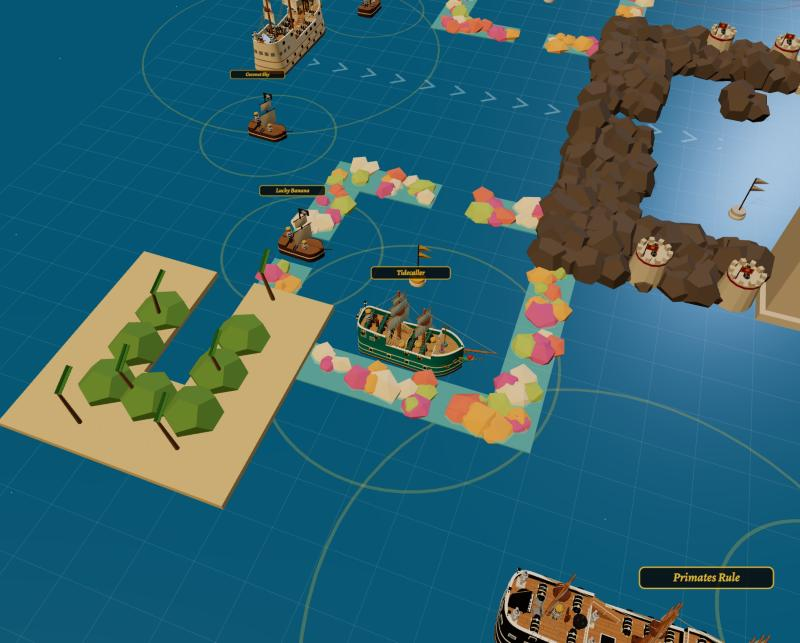
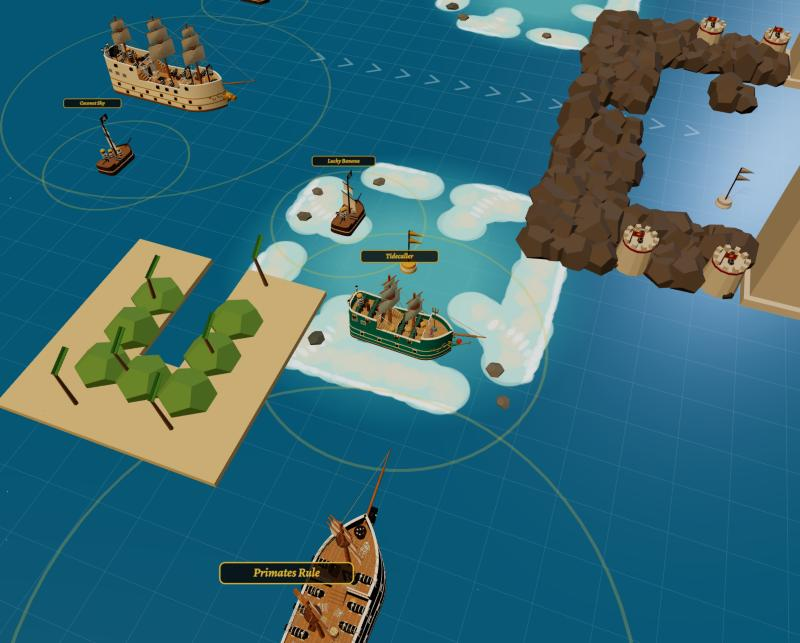
The reefs drawn as lagoons, not coloured coral: the sea paling to turquoise, a sandbar ring under surf, its gaps open

diff --git a/js/den/blockade.js b/js/den/blockade.js
@@ -69,24 +69,67 @@ export function blockadeSea({ you = 0, say = () => {}, brawl = false, admiral = 
   // ----- the rocks, the fort's walls among them (its towers and bastions their own) -----
   const stoneM = mat('#6b6158', { flatShading: true, roughness: 0.95 }), stoneGeo = new THREE.DodecahedronGeometry(1, 0);
   const isleSq = new Set(BLOCKADE.ISLANDS.flatMap((i) => islandLand(i).map(([c, r]) => `${c},${r}`)));
-  // (the reefs round the island buoys: shallow water over sand, low coral heads breaking the surface, not rocks)
+  // (the reefs round the island buoys, drawn as a lagoon is (15 Nov: "they look incredibly weird and colourful, not very
+  // lagoon reef like"): the sea paling to turquoise round each, the reef a ring of pale sand just under the water with
+  // a few dark rocks breaking it and white surf along it, the lagoon inside clear turquoise)
   // (the fort's wall where a reef meets it, still wall)
   const wall = (c, r) => B.WALLS.some((w) => c >= w.c0 && c <= w.c1 && r >= w.r0 && r <= w.r1);
   const reefSq = new Set(BLOCKADE.REEFS.flatMap((x) => reefSquares(x).filter(([c, r]) => !wall(c, r)).map(([c, r]) => `${c},${r}`)));
-  const shallowM = new THREE.MeshStandardMaterial({ color: '#6fd0c4', roughness: 0.6, transparent: true, opacity: 0.75 });
-  const coralMs = ['#e8826e', '#f0b25c', '#d870a8', '#f2e2c4', '#b8d06a'].map((col) => mat(col, { flatShading: true, roughness: 0.85 }));
-  const coralGeo = new THREE.IcosahedronGeometry(1, 0), shallowGeo = new THREE.BoxGeometry(CELL, 0.5, CELL);
+  // (each reef painted as one picture over the sea: a soft paling round it, the lagoon, a sandbar ring with a wobbly
+  // edge and its gaps open, surf along its outside; the few rocks on it in 3D)
+  const reefTex = (reef) => canvasTex(512, 512, (x, w) => {
+    const n = reef.ring * 2 + 3, px = w / n, mid = w / 2, roll = dice(reef.at[0], reef.at[1]);
+    const toPx = (c, r) => [mid + (c - reef.at[0]) * px, mid - (r - reef.at[1]) * px];
+    x.clearRect(0, 0, w, w);
+    const halo = x.createRadialGradient(mid, mid, px * 1.5, mid, mid, mid);
+    halo.addColorStop(0, 'rgba(74, 185, 178, 0.75)'); halo.addColorStop(0.6, 'rgba(58, 160, 165, 0.45)'); halo.addColorStop(1, 'rgba(47, 143, 154, 0)');
+    x.fillStyle = halo; x.fillRect(0, 0, w, w);
+    // (along the ring: its middle line, a rounded square reef.ring squares out)
+    const R = reef.ring * px, corner = px * 1.1, along = [];
+    for (let t = 0; t < 1; t += 1 / 400) {
+      const u = t * 4, side = Math.floor(u), f = u - side, a = -R + corner + f * (2 * R - 2 * corner);
+      const pts = [[a, -R], [R, a], [-a, R], [-R, -a]][side];
+      along.push(pts);
+      if (f > 0.97) for (let k = 0; k <= 8; k++) { const th = (side * Math.PI) / 2 - Math.PI / 2 + (k / 8) * (Math.PI / 2); along.push([[R - corner, R - corner], [-R + corner, R - corner], [-R + corner, -R + corner], [R - corner, -R + corner]][side].map((v, i) => v + (i ? Math.sin(th) : Math.cos(th)) * corner)); }
+    }
+    const gaps = reef.gaps.map(([c, r]) => toPx(c, r));
+    const inGap = (X, Y) => gaps.some(([gx, gy]) => Math.hypot(X - gx, Y - gy) < px * 0.62);
+    // the sandbar under the water, its edge wobbling
+    for (const [ax, ay] of along) {
+      const X = mid + ax, Y = mid + ay;
+      if (inGap(X, Y)) continue;
+      x.fillStyle = 'rgba(160, 220, 204, 0.8)'; x.beginPath(); x.arc(X + (roll() - 0.5) * px * 0.2, Y + (roll() - 0.5) * px * 0.2, px * (0.42 + roll() * 0.16), 0, Math.PI * 2); x.fill();
+    }
+    for (const [ax, ay] of along) {
+      const X = mid + ax, Y = mid + ay;
+      if (inGap(X, Y) || roll() < 0.5) continue;
+      x.fillStyle = 'rgba(226, 216, 178, 0.45)'; x.beginPath(); x.arc(X + (roll() - 0.5) * px * 0.35, Y + (roll() - 0.5) * px * 0.35, px * (0.12 + roll() * 0.14), 0, Math.PI * 2); x.fill();
+    }
+    // surf, white, along the bar's outer edge
+    for (const [ax, ay] of along) {
+      const d = Math.hypot(ax, ay) || 1, out = px * 0.5, X = mid + ax + (ax / d) * out, Y = mid + ay + (ay / d) * out;
+      if (inGap(mid + ax, mid + ay) || roll() < 0.35) continue;
+      x.fillStyle = `rgba(255, 255, 255, ${0.25 + roll() * 0.35})`; x.beginPath(); x.ellipse(X, Y, px * (0.06 + roll() * 0.14), px * (0.04 + roll() * 0.06), Math.atan2(ay, ax) + Math.PI / 2, 0, Math.PI * 2); x.fill();
+    }
+  });
+  const reefRockM = ['#6d6f68', '#7a776c', '#5d6660'].map((col) => mat(col, { flatShading: true, roughness: 0.95 }));
+  const rockGeo = new THREE.DodecahedronGeometry(1, 0), reefSheets = [];
+  for (const reef of BLOCKADE.REEFS) {
+    const at = v3(...reef.at), size = (reef.ring * 2 + 3) * CELL;
+    const q = new THREE.Mesh(new THREE.PlaneGeometry(size, size).rotateX(-Math.PI / 2), new THREE.MeshBasicMaterial({ map: reefTex(reef), transparent: true, depthWrite: false }));
+    q.position.set(at.x, 0.02, at.z); q.renderOrder = 1; g.add(q); reefSheets.push(q);
+  }
   for (const k of b.rocks) {
     const [c, r] = k.split(',').map(Number);
     if (isleSq.has(k) || b.gates.some((gate) => gate.towerAt(c, r) >= 0) || b.battery.some((x) => x.at[0] === c && x.at[1] === r)) continue;
     const roll = dice(c, r), at = v3(c, r);
     if (reefSq.has(k)) {
-      const sh = mesh(shallowGeo, shallowM, false); sh.position.set(at.x, -0.12, at.z); g.add(sh);
-      for (let i = 0; i < 5; i++) {
-        const s = 0.6 + roll() * 0.7, m = mesh(coralGeo, coralMs[Math.floor(roll() * coralMs.length)]);
-        m.scale.set(s * (1 + roll() * 0.6), s * (0.35 + roll() * 0.45), s * (1 + roll() * 0.6));
-        m.position.set(at.x + (roll() - 0.5) * 2.8, s * 0.12, at.z + (roll() - 0.5) * 2.8);
-        m.rotation.set(roll() * 0.5, roll() * 3, roll() * 0.5);
+      // (a rock or two breaking the surface, low and dark)
+      for (let i = 0, n = roll() < 0.45 ? 1 : 0; i < n; i++) {
+        const sz = 0.4 + roll() * 0.4, m = mesh(rockGeo, reefRockM[Math.floor(roll() * reefRockM.length)]);
+        m.scale.set(sz * (1 + roll() * 0.4), sz * 0.6, sz * (1 + roll() * 0.4));
+        m.position.set(at.x + (roll() - 0.5) * 2.6, 0.02, at.z + (roll() - 0.5) * 2.6);
+        m.rotation.set(0, roll() * 3, 0);
         g.add(m);
       }
       continue;
@@ -333,6 +376,7 @@ export function blockadeSea({ you = 0, say = () => {}, brawl = false, admiral = 
         buoys[i].o.position.y = Math.sin(clock * 1.2 + i) * 0.1;
       });
       for (const t of lanes) t.offset.y -= dt * 2.2;
+      for (const q of reefSheets) q.material.opacity = 0.92 + Math.sin(clock * 0.9) * 0.08;   // (the surf, breathing)
       // Your pin, your berth there, your course.
       const mine = me >= 0 ? b.ship(me) : null;
       pin.visible = !!mine?.helm.pin;

diff --git a/changelog.html b/changelog.html
@@ -83,10 +83,10 @@
       <a href="changelog/blockade.jpg"><img src="changelog/blockade.jpg" width="800" height="450" alt="A blockade board from above: a wall of rocks across the sea with an imperial gate, one tower shot down, war frigates and sloops round the buoys, influence circles on the water"></a>
       <a href="changelog/blockade-brawl.jpg"><img src="changelog/blockade-brawl.jpg" width="800" height="505" alt="Iron Pride holed along her side in a brawl with Primates Rule, Golden Grin coming in"></a>
       <a href="changelog/blockade-brig-turtles.jpg"><img src="changelog/blockade-brig-turtles.jpg" width="800" height="643" alt="Tidecaller, an Atlantean war brig in sea green, her sea turtles swimming out from her sides"></a>
-      <a href="changelog/blockade-reef.jpg"><img src="changelog/blockade-reef.jpg" width="800" height="643" alt="A coral reef round a buoy by an island, Tidecaller in its lagoon, a sloop coming in through a gap, Primates Rule outside"></a>
+      <a href="changelog/blockade-reef.jpg"><img src="changelog/blockade-reef.jpg" width="800" height="643" alt="A reef round a buoy by an island, a ring of sand and surf round a turquoise lagoon, Tidecaller in it, a sloop coming in through a gap, Primates Rule outside"></a>
     </div>
     <h3>A blockade</h3>
-    <p>Two sides, three war frigates, a war brig and five sloops each, come in from different edges to fight for the buoys of a blockade board, as Puzzle Pirates' are: each turn, a buoy only one side's ships reach scores its pennants. The best are in a walled fort in the middle. The sloops ride fast winds in through gaps in its walls; a war frigate has to shoot down a tower of an imperial gate to squeeze in, its four guns firing on anyone who lingers under them: charge through under fire, or wreck the guns first. Sloops hide in the islands' coves and dart out at the frigates; the frigates fight it out for the gates. Between them, each side's war brig fights round the islands, beating a sloop and losing to a frigate. The buoys by the islands sit in coral lagoons with gaps a square wide: a sloop or a brig gets in, a frigate can't, so that's where brig meets sloop. And a brig launches little craft off her sides: Tidecaller, an Atlantean, sends out sea turtles that swim at the enemy and ram them; Grave Lantern, a haunted brig, sends out ghost sloops that hold buoys a while, then fade. Every hit leaves a hole where it struck, the little crews patch and pump as she sits lower in the water, a ship shot to pieces lies dead in the water till they've rebuilt her, and keep shooting her and she goes down by the stern, to come back from her own side's edge and fight her way in again. Spectate, the camera following the action, or sail any of the sixteen. Or watch a brawl: two war frigates broadside to broadside, coming about for each other's side till one lies smoking, the camera slowly round them. Or be the admiral: before the round starts, pick a strategy for your sloops (hide and snipe, run for the middle, hold the outside), one for your war brig, and one for your war frigates (rush the middle, take it step by step, control the outside, hunt their frigates, go for sinks), then watch your plan play out, changing it as it goes or taking any ship's helm.</p>
+    <p>Two sides, three war frigates, a war brig and five sloops each, come in from different edges to fight for the buoys of a blockade board, as Puzzle Pirates' are: each turn, a buoy only one side's ships reach scores its pennants. The best are in a walled fort in the middle. The sloops ride fast winds in through gaps in its walls; a war frigate has to shoot down a tower of an imperial gate to squeeze in, its four guns firing on anyone who lingers under them: charge through under fire, or wreck the guns first. Sloops hide in the islands' coves and dart out at the frigates; the frigates fight it out for the gates. Between them, each side's war brig fights round the islands, beating a sloop and losing to a frigate. The buoys by the islands sit in lagoons, a reef round each with gaps a square wide: a sloop or a brig gets in, a frigate can't, so that's where brig meets sloop. And a brig launches little craft off her sides: Tidecaller, an Atlantean, sends out sea turtles that swim at the enemy and ram them; Grave Lantern, a haunted brig, sends out ghost sloops that hold buoys a while, then fade. Every hit leaves a hole where it struck, the little crews patch and pump as she sits lower in the water, a ship shot to pieces lies dead in the water till they've rebuilt her, and keep shooting her and she goes down by the stern, to come back from her own side's edge and fight her way in again. Spectate, the camera following the action, or sail any of the sixteen. Or watch a brawl: two war frigates broadside to broadside, coming about for each other's side till one lies smoking, the camera slowly round them. Or be the admiral: before the round starts, pick a strategy for your sloops (hide and snipe, run for the middle, hold the outside), one for your war brig, and one for your war frigates (rush the middle, take it step by step, control the outside, hunt their frigates, go for sinks), then watch your plan play out, changing it as it goes or taking any ship's helm.</p>
     <p class="try">Try it: <a href="blockade-test.html"><code>blockade-test.html</code></a>, the brawl, <a href="blockade-test.html?watch=brawl"><code>?watch=brawl</code></a>, or be the admiral, <a href="blockade-test.html?admiral"><code>?admiral</code></a></p>
   </article>
 

diff --git a/design.html b/design.html
@@ -329,7 +329,7 @@
     <p><b>The big ships are powerful but clumsy.</b> A war frigate's moves are as big as her turn, two squares at a time, so over open water she's as quick as a sloop. But she plays fewer moves a turn and each takes longer, so she's slower to react: a sloop can dart in, fire and be gone before she can answer. She turns wide, needs room, and can't fit through a one-square gap.</p>
     <p><b>The sloop's speed comes from the sea, not her moves.</b> She's small enough for the winds to carry her, and a frigate rides them out. Fast little winds blow in through the fort's side ways, so the sloops are into the heart within seconds. The quickest way about the board for her is knowing where the winds are.</p>
     <p><b>Each has her job.</b> Sloops cover ground: holding the buoys a frigate can't reach, hiding in coves, and sniping. A sniper lies across a frigate's line, off her stern, where none of her broadsides can bear, rakes her and runs. The frigates hold the big open water, protect their sloops, and are the only ships whose guns can bring a gate's towers down.</p>
-    <p><b>The war brig is the middle ground.</b> Sloops get places first; frigates win the brawls. The brig sits between: a square a move like a sloop but slower at it, two medium shots a side, so she beats a sloop and loses to a frigate. Her place is round the islands. Their buoys sit in coral lagoons, a reef round each with gaps a square wide: a sloop or a brig slips in, a frigate can't, and can't reach the buoy over the reef. So the lagoons are the middle ground, where the sloops get first and the brigs drive them off. She's two squares long and needs no tower shot down to get through a gate either, so she's into the heart quicker than a frigate, if slower than a sloop. And she covers more of the sea than her size by launching little craft off her sides. An Atlantean brig sends out sea turtles that swim at the enemy and ram them; a haunted brig sends out ghost sloops that hold buoys for a while, then fade.</p>
+    <p><b>The war brig is the middle ground.</b> Sloops get places first; frigates win the brawls. The brig sits between: a square a move like a sloop but slower at it, two medium shots a side, so she beats a sloop and loses to a frigate. Her place is round the islands. Their buoys sit in lagoons, a reef of sand and surf round each with gaps a square wide: a sloop or a brig slips in, a frigate can't, and can't reach the buoy over the reef. So the lagoons are the middle ground, where the sloops get first and the brigs drive them off. She's two squares long and needs no tower shot down to get through a gate either, so she's into the heart quicker than a frigate, if slower than a sloop. And she covers more of the sea than her size by launching little craft off her sides. An Atlantean brig sends out sea turtles that swim at the enemy and ram them; a haunted brig sends out ghost sloops that hold buoys for a while, then fade.</p>
     <p><b>Every big ship is a set of choices, not a new ship.</b> Her paints, her figurehead, her guns and the furniture on her deck are a config: Primates Rule, Coral Throne the Atlantean all clams and coral, Eldritch Wail the ghost ship you can see through, and the brigs drawn from the same parts on a smaller hull. A style's trick, such as what a brig launches, comes with its look.</p>
     <p class="try">Try it: <a href="blockade-test.html"><code>blockade-test.html</code></a>, then any ship's Sail button</p>
   </article>

diff --git a/BLOCKADE.md b/BLOCKADE.md
@@ -181,7 +181,9 @@ damage's `js/den/ship-damage.js`. Tests: `tests/blockade.test.ts`, `tests/ship-d
     frigate can't, her influence falls short of the buoy from outside the reef, and her broadsides stop on it. Those
     buoys made two pennants, so they're worth the fight. The reefs close the way between each island and the fort,
     so a frigate going from the south to the north goes the long way round past the islands, along the board's edge
-    (two rocks there taken out so she fits); drawn as coral heads over shallow water;
+    (two rocks there taken out so she fits); drawn as a lagoon (15 Nov, of coloured coral heads: "they look incredibly
+    weird and colourful, not very lagoon reef like"): the sea paling to turquoise round it, a sandbar ring just under
+    the water with surf along its outside and its gaps open, a grey rock here and there;
   - drawn from a war frigate's parts on her own plan (two masts, one row of ports, her stern's few sizes her own:
     `Plan.stern`), the turtles and ghost sloops by `js/den/sea-craft.js`; the admiral picks a strategy for her too
     (her own choice, hold the outside, run for the middle, hunt their frigates).

diff --git a/tasks/primates-rule/the-reefs-look-like-a-lagoon-not-confetti.md b/tasks/primates-rule/the-reefs-look-like-a-lagoon-not-confetti.md
@@ -1,0 +1,17 @@
+---
+title: The reefs look like a lagoon, not confetti
+status: playtest
+asked: 15 Nov
+updated: 15 Nov
+link: blockade-test.html?as=dachimpy
+shot: changelog/blockade-reef.jpg
+---
+
+**Asked:** they look incredibly weird and colourful, not very lagoon reef like at the moment
+
+**Done looks like:** the reef rings as pale sand under turquoise shallows, low muted rocks, white surf on their outer edge, the lagoon inside lighter water
+
+## Log
+
+- 15 Nov: added.
+- 15 Nov: for you to playtest: Redrawn as a lagoon: turquoise paling round a sandbar ring under surf, its gaps open, a few grey rocks.
